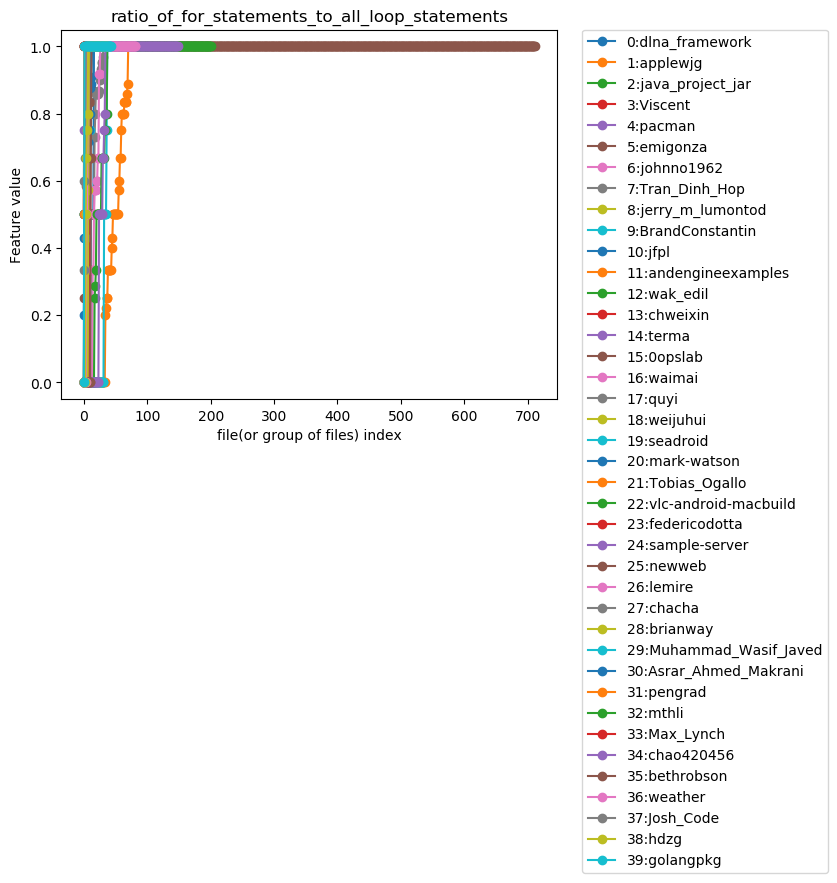
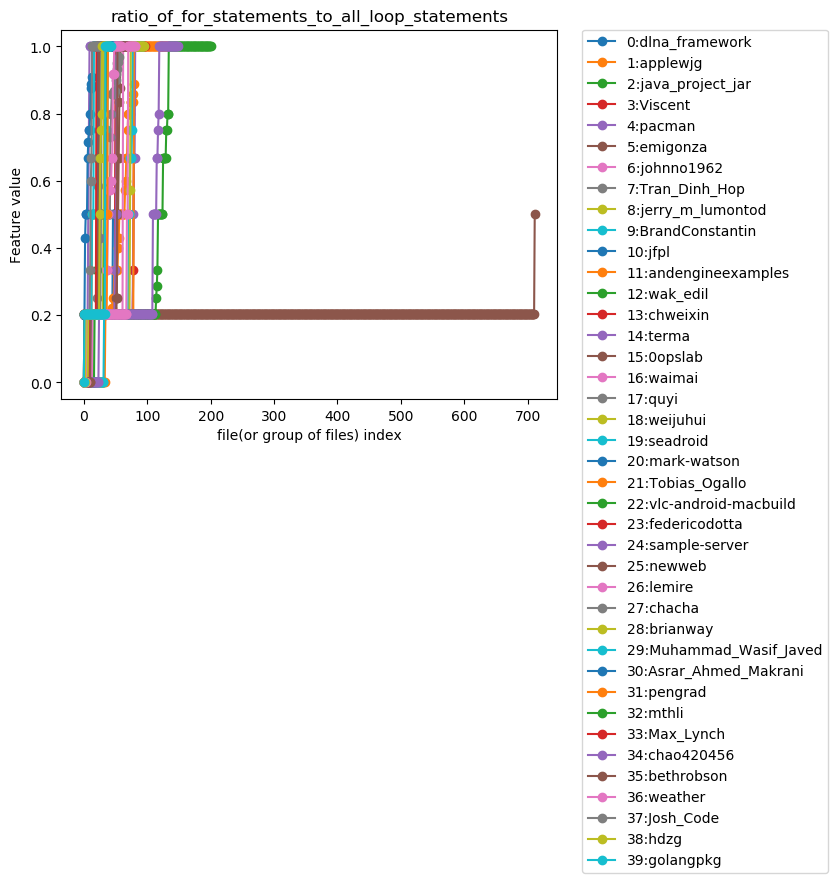
a / 0 = mean value. Converges a little bit faster, acc is the same, but looks like early stopping is low.

Changed region(s): [[0.0932, 0.0306, 0.6523, 0.3975], [0.2485, 0.0306, 0.6523, 0.0612]]

diff --git a/psob_authorship/features/utils.py b/psob_authorship/features/utils.py
@@ -39,21 +39,21 @@ def get_absfilepaths(file_or_dir):
 
 
 def divide_percentage_with_handling_zero_division(numerator, denominator, logger: logging.Logger,
-                                                  log_information, zero_division_return=1.0):
+                                                  log_information, zero_division_return=-1.0):
     result = divide_with_handling_zero_division(numerator, denominator, logger,
                                                 log_information, (0, 1), zero_division_return)
     return zero_division_return if result == zero_division_return else result * 100
 
 
 def divide_ratio_with_handling_zero_division(numerator, denominator, logger: logging.Logger,
-                                             log_information, zero_division_return=1.0):
+                                             log_information, zero_division_return=-1.0):
     return divide_with_handling_zero_division(numerator, denominator, logger,
                                               log_information, (0, 1), zero_division_return)
 
 
 def divide_nonnegative_with_handling_zero_division(numerator, denominator, logger: logging.Logger,
                                                    log_information, take_log10=False, log_from_zero=-100.0,
-                                                   zero_division_return=1.0):
+                                                   zero_division_return=-1.0):
     result = divide_with_handling_zero_division(numerator, denominator, logger,
                                                 log_information, (0, float("inf")), zero_division_return)
     if result == zero_division_return:
@@ -64,7 +64,7 @@ def divide_nonnegative_with_handling_zero_division(numerator, denominator, logge
 
 
 def divide_with_handling_zero_division(numerator, denominator, logger: logging.Logger, log_information,
-                                       expected_bounds: Tuple[float, float], zero_division_return=1.0):
+                                       expected_bounds: Tuple[float, float], zero_division_return=-1.0):
     if denominator == 0:
         logger.warning("SUSPICIOUS ZERO DIVISION: " + log_information)
         return zero_division_return

diff --git a/psob_authorship/features/extract_features.py b/psob_authorship/features/extract_features.py
@@ -61,6 +61,14 @@ def extract_for_each_file():
     save_extracted_features(filepath, features, labels, feature_names, author_names)
 
 
+def extract_with_mean_values_for_each_file():
+    fileprefix = "extracted_for_each_file"
+    filepath = os.path.join(CALCULATED_FEATURES_ROOT, fileprefix)
+    features, labels, feature_names, author_names = get_labeled_data()
+    MetricsCalculator.transform_metrics_default_values_to_mean(-1, features)
+    save_extracted_features(filepath, features, labels, feature_names, author_names)
+
+
 def save_extracted_features(filepath: str, features: torch.Tensor, labels: torch.Tensor,
                             feature_names: List[str], author_names: Dict[int, str]):
     print("Shape of features: " + str(features.shape))
@@ -75,4 +83,4 @@ def save_extracted_features(filepath: str, features: torch.Tensor, labels: torch
 
 
 if __name__ == '__main__':
-    extract_for_each_file()
+    extract_with_mean_values_for_each_file()

diff --git a/psob_authorship/features/java/MetricsCalculator.py b/psob_authorship/features/java/MetricsCalculator.py
@@ -32,3 +32,13 @@ class MetricsCalculator:
             self.character_metrics_calculator.get_metrics(filepaths),
             self.ast_metrics_calculator.get_metrics(filepaths)
         ))
+
+    @staticmethod
+    def transform_metrics_default_values_to_mean(default_value, features: torch.Tensor):
+        default_value_indices = features == default_value
+        features[default_value_indices] = 0
+        mean_values = torch.mean(features, dim=0)
+        for row in range(features.shape[0]):
+            for col in range(features.shape[1]):
+                if default_value_indices[row][col] == 1:
+                    features[row][col] = mean_values[col]

diff --git a/psob_authorship/experiment/one_split_fit.py b/psob_authorship/experiment/one_split_fit.py
@@ -13,7 +13,7 @@ from psob_authorship.model.Model import Model
 
 CONFIG = {
     'experiment_name': os.path.basename(__file__).split('.')[0],
-    'experiment_notes': "change: a / 0 = 1, not -1",
+    'experiment_notes': "change: a / 0 = mean value, not 1",
     'number_of_authors': 40,
     'labels_features_common_name': "../calculated_features/extracted_for_each_file",
     'metrics': [0, 1, 2, 3, 4, 5, 6, 7, 8, 9, 10, 11, 12, 13, 14, 15, 16, 17, 18],
